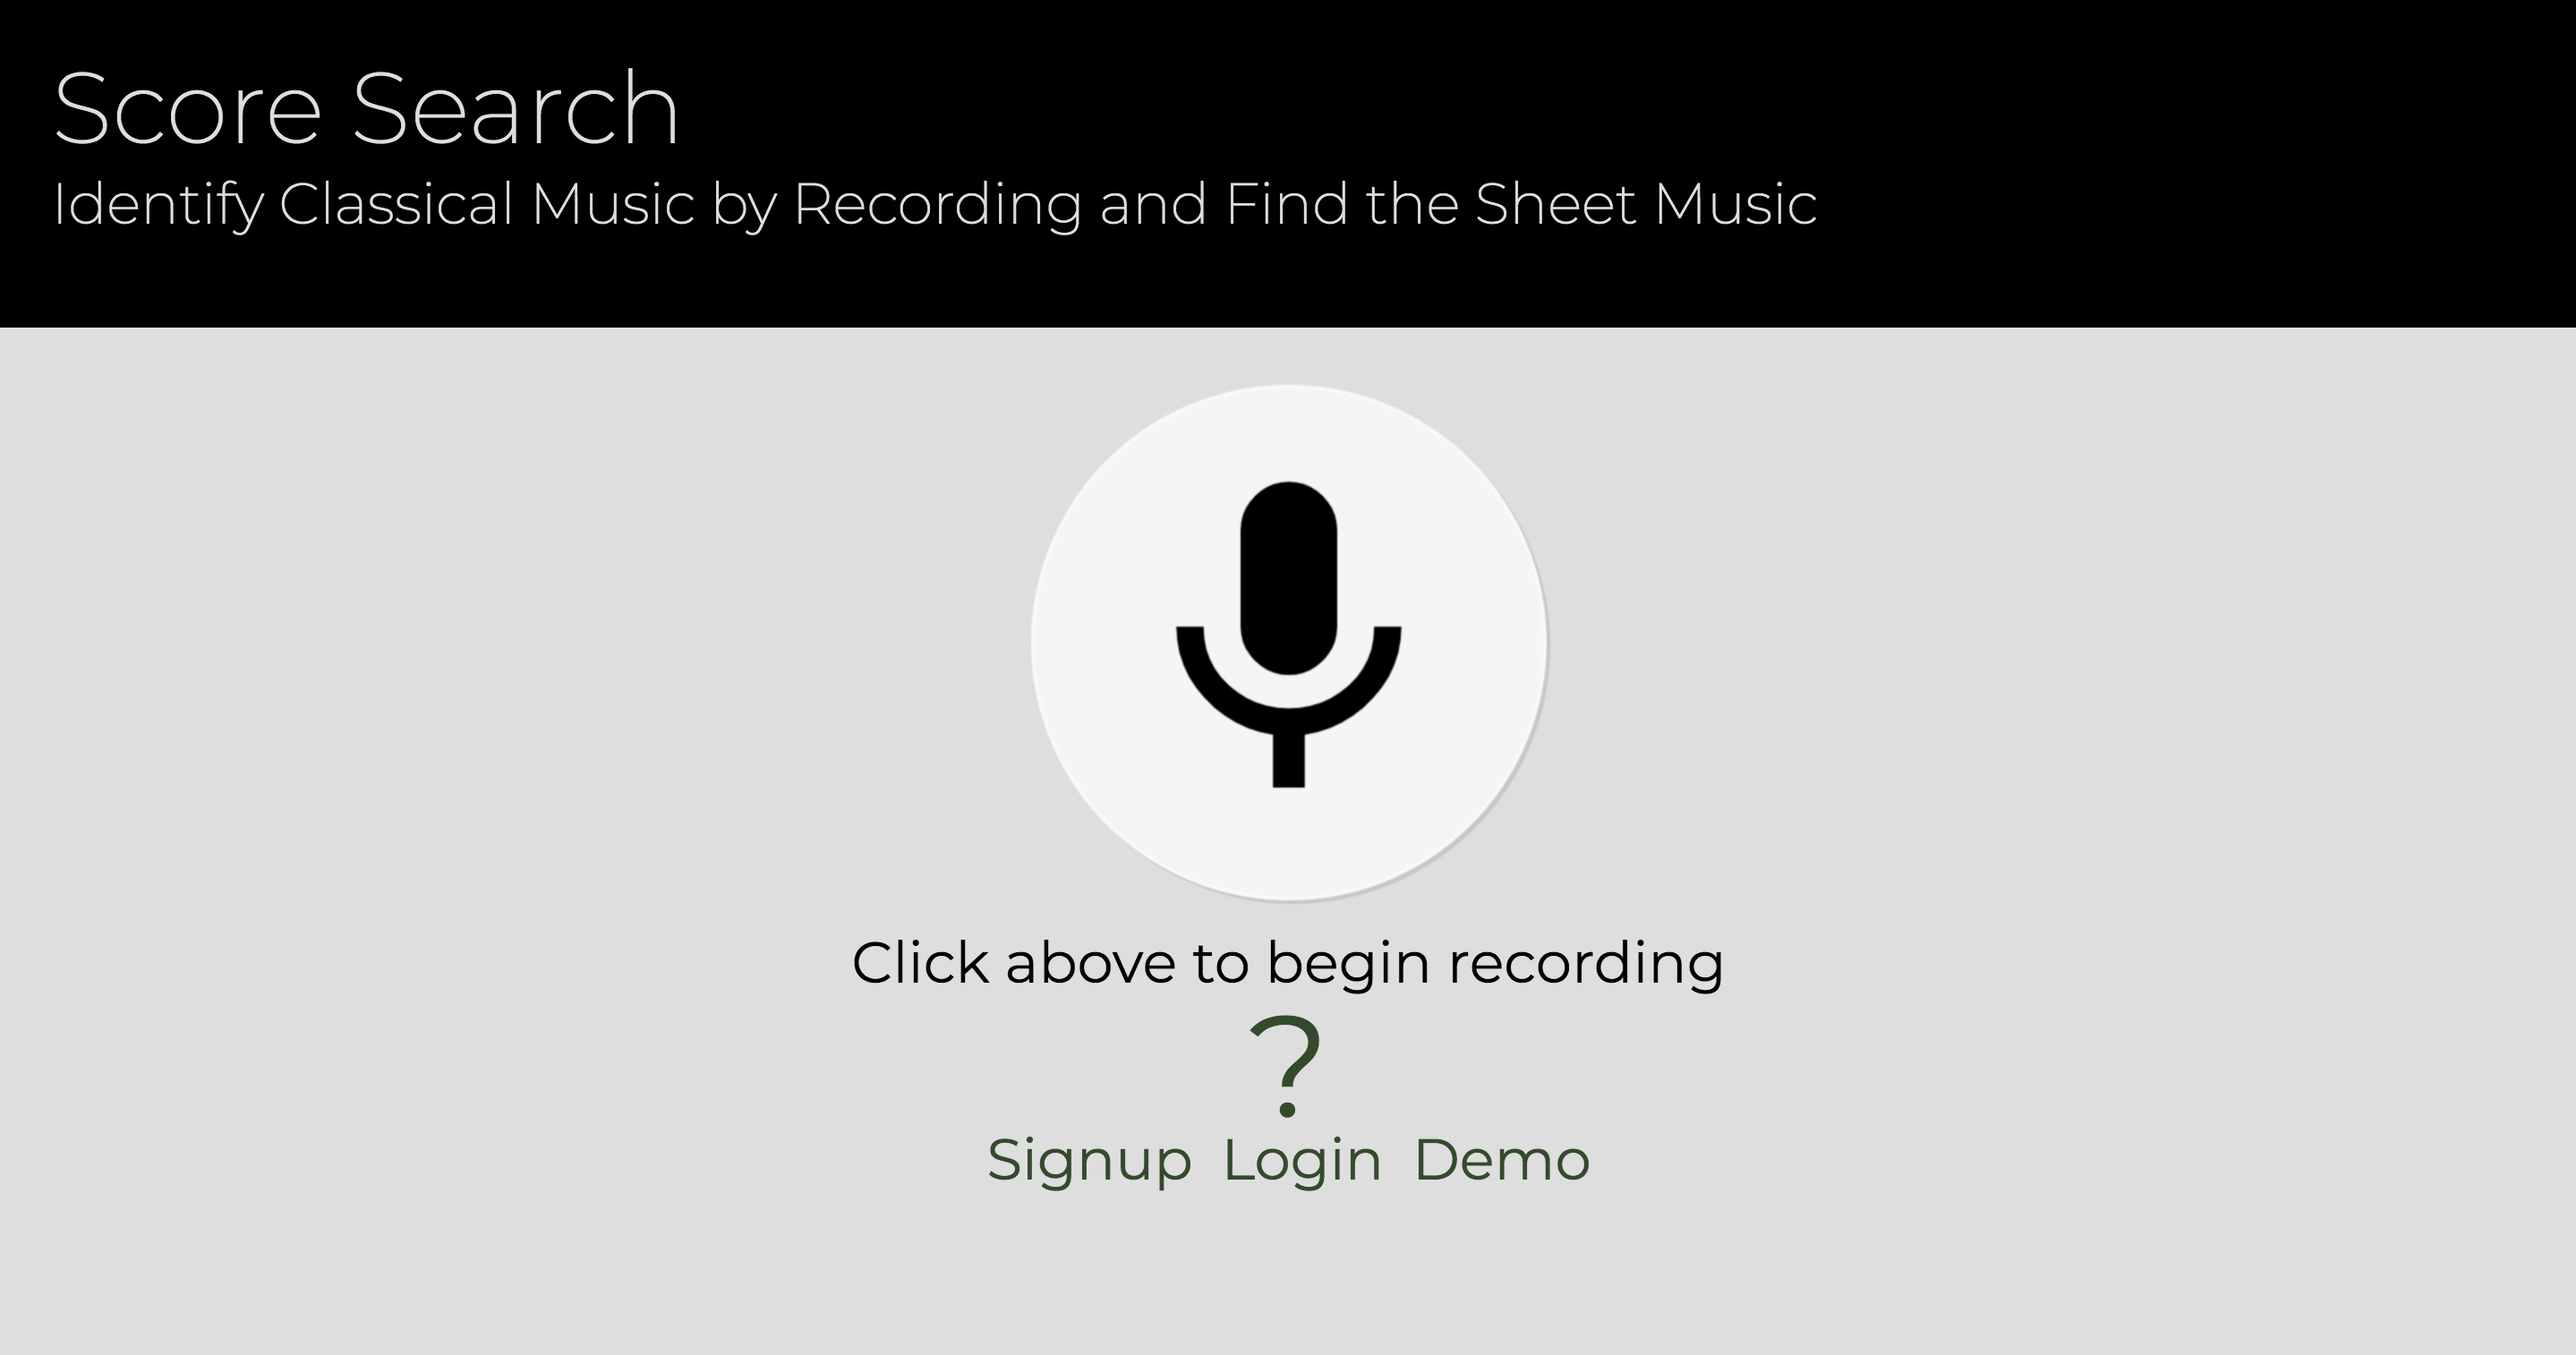
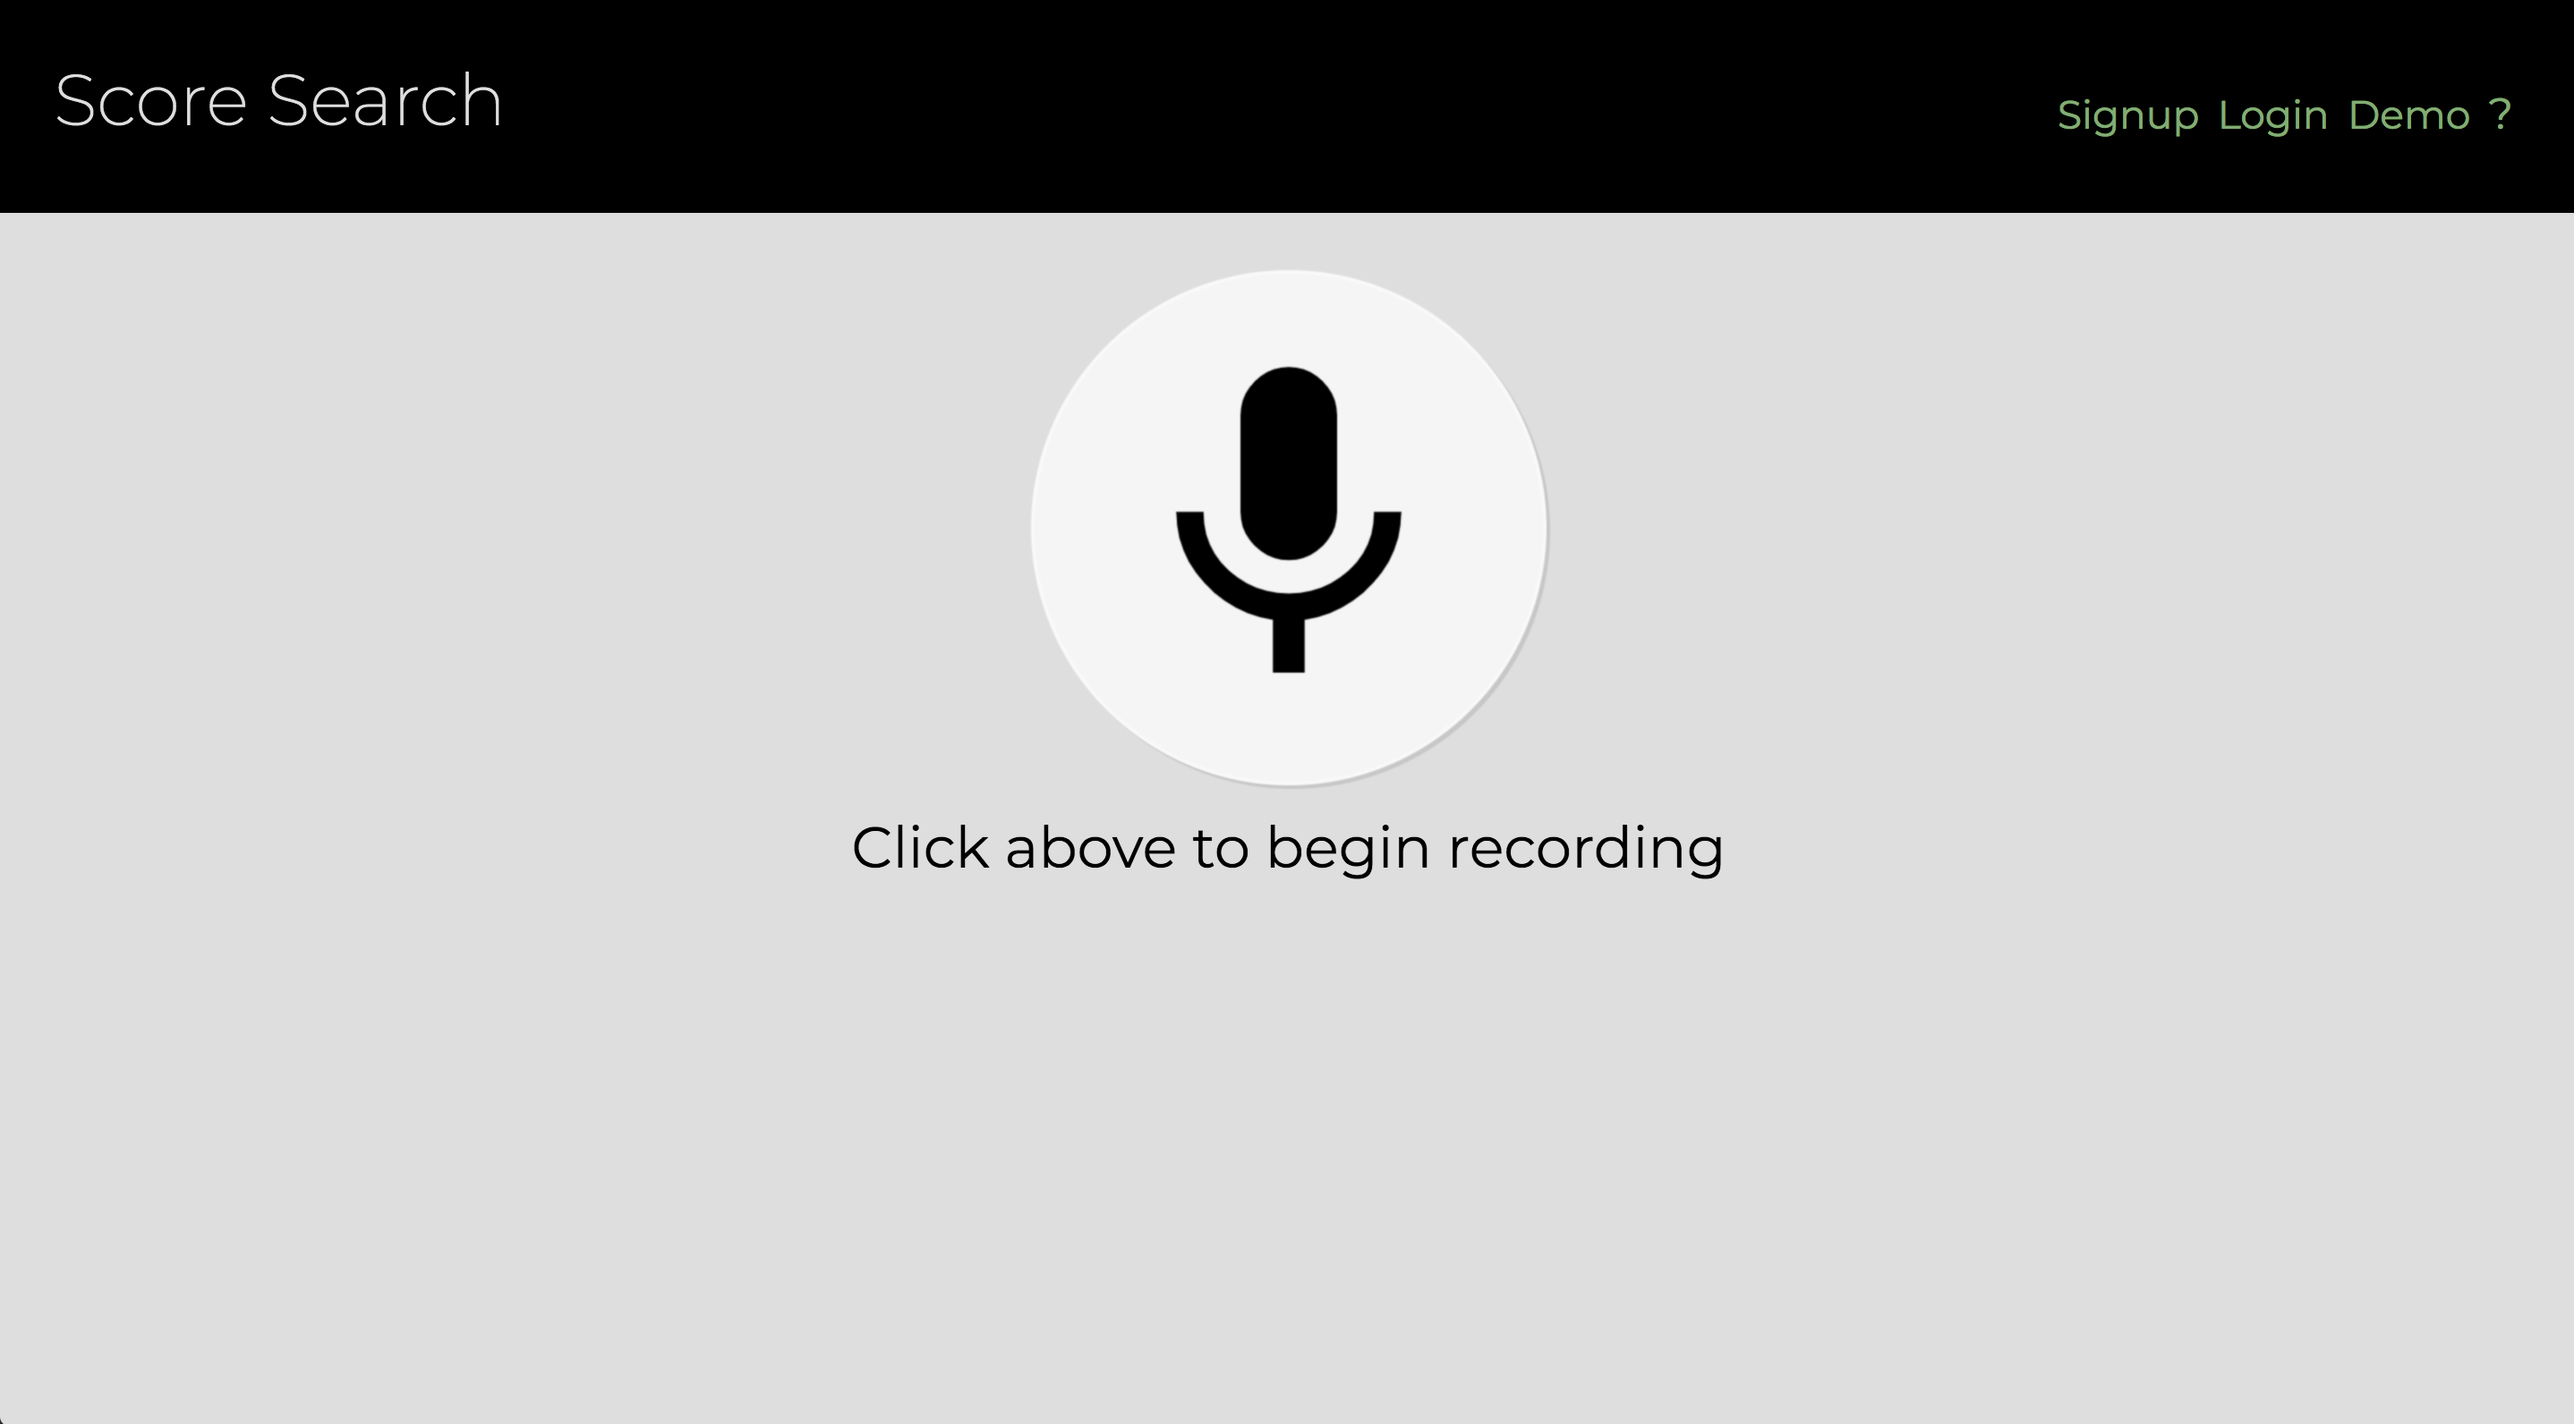
Update preview image

diff --git a/public/index.html b/public/index.html
@@ -39,30 +39,27 @@
             <a href="#" class="ui-link pastsearches-link">Past Searches</a>
             <a href="#" class="ui-link logout-link">Logout</a>
           </section>
-          
-              
-            </div>
         </div>
       </header>
-      <section class="recorder col-xs-12" role="region">
-          <button class="record_btn" id="button" aria-label="record button"></button>
-          <div id="msg_box" aria-live="assertive"></div>
-          <div id="seconds-counter"></div>
+    </section>  
+    <section class="recorder col-xs-12" role="region">
+        <button class="record_btn" id="button" aria-label="record button"></button>
+        <div id="msg_box" aria-live="assertive"></div>
+        <div id="seconds-counter"></div>
+    </section>
+    <section class="past-search-region col-xs-12" role="region" aria-live="assertive" hidden>
+      <section class="past-searches row" role="region">
       </section>
-      <section class="past-search-region col-xs-12" role="region" aria-live="assertive" hidden>
-        <section class="past-searches row" role="region">
-        </section>
-        <section class="demo-past-searches row" role="region">
-        </section>
+      <section class="demo-past-searches row" role="region">
       </section>
-      <section class="api-results" role="region" aria-live="assertive" hidden>
-        <h2 class="audD-result-title" hidden></h2>
-        <h2 class="audD-error-message" hidden></h2>
-        <section class="imslp-results" role="region">
-          <ul class="imslp-search-results">
-          </ul>
-          <button href="#" class="save-button" role="button" hidden>Save</button>
-        </section>
+    </section>
+    <section class="api-results" role="region" aria-live="assertive" hidden>
+      <h2 class="audD-result-title" hidden></h2>
+      <h2 class="audD-error-message" hidden></h2>
+      <section class="imslp-results" role="region">
+        <ul class="imslp-search-results">
+        </ul>
+        <button href="#" class="save-button" role="button" hidden>Save</button>
       </section>
     </section>
     <section id="modal" class="col-xs-12" role="region" aria-live="assertive" hidden></section>
